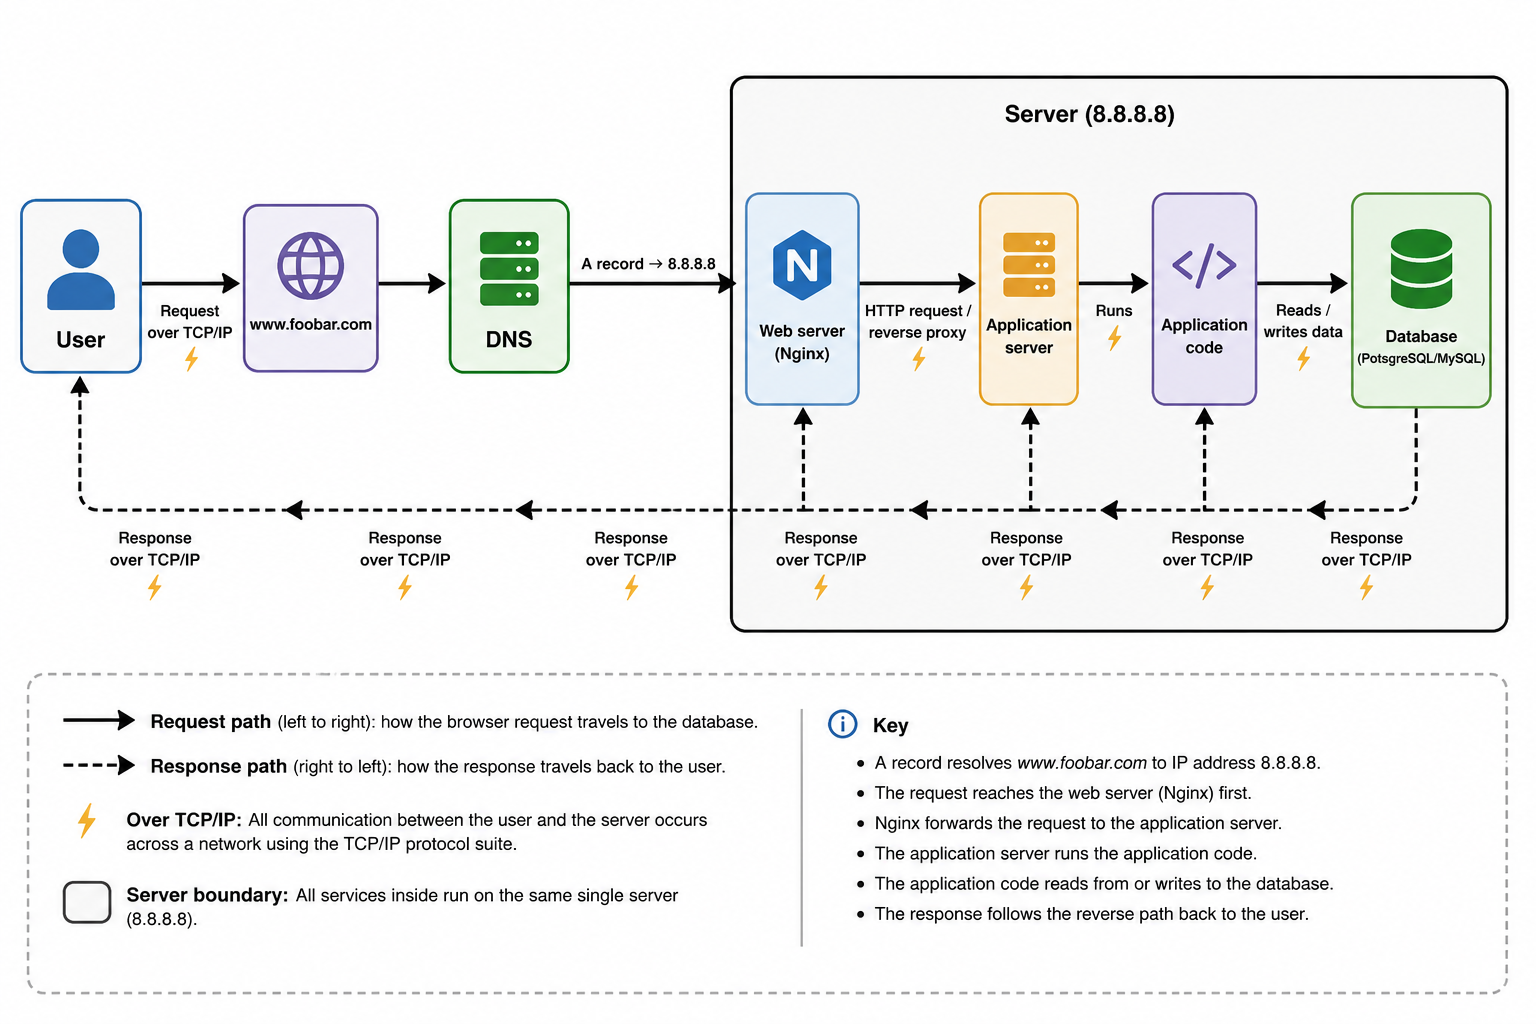
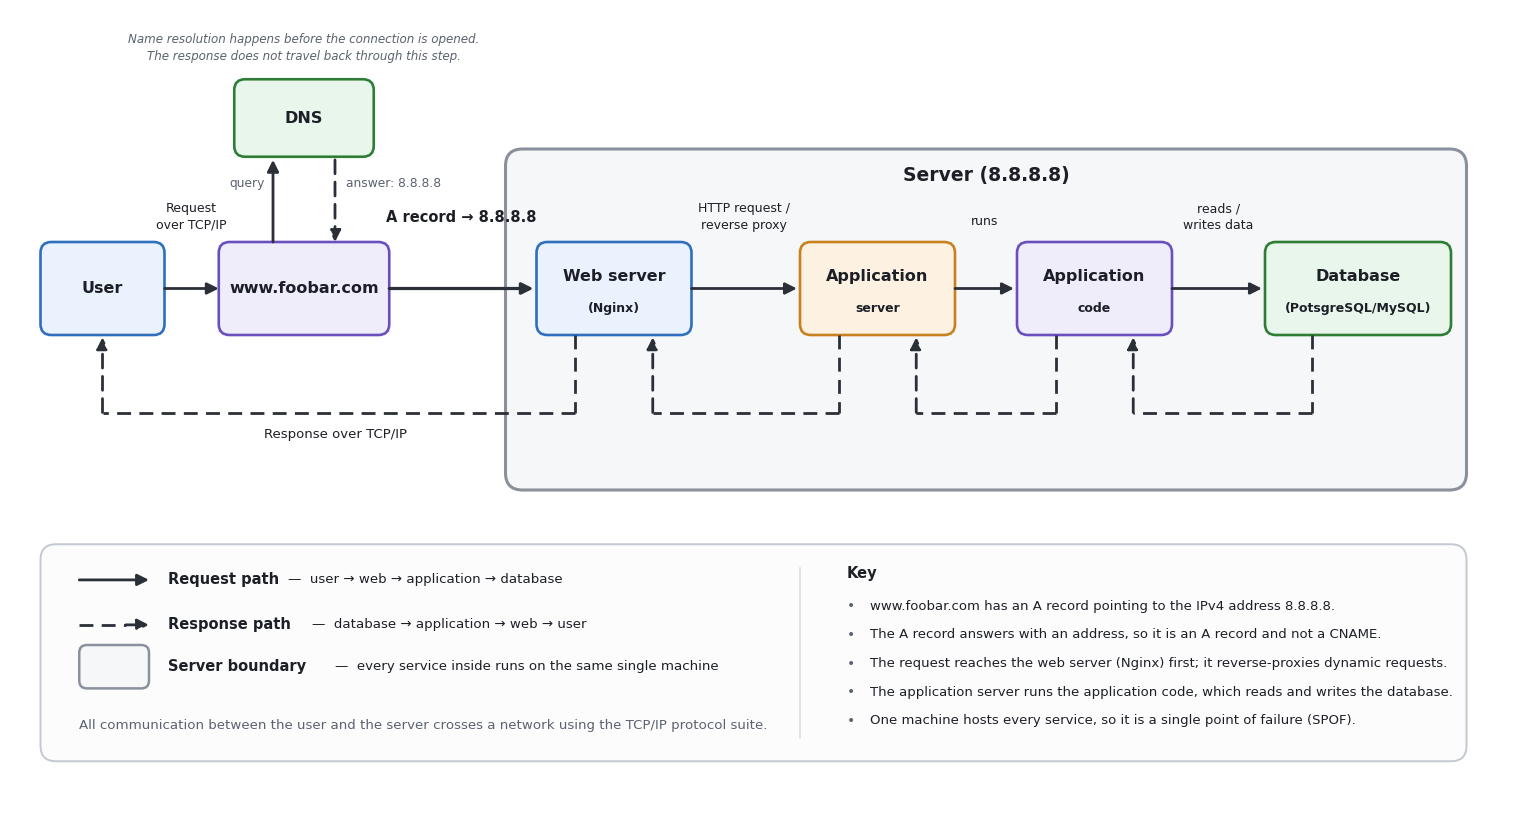
Fix and update both README.md single_server_stack.mmd and single_server_stack.png

diff --git a/web_infrastructure_design/README.md b/web_infrastructure_design/README.md
@@ -1,10 +1,14 @@
 # Introduction to Web Infrastructure Design
 
-This repository contains the answer for **Task 0 — Model a Single-Server Web Stack**.
+This directory contains the web infrastructure designs for this project, one
+section per task, together with the diagram source and its rendered image.
 
-The design shows how a request for `www.foobar.com` is resolved by DNS, reaches a single server at `8.8.8.8`, passes through the web and application layers to the database, and then returns to the user.
+Each design is delivered as a plain-text diagram (`.mmd`) and a rendered image
+(`.png`). The plain-text representation is used instead of Mermaid source with
+the agreement of the project supervisor; the diagram content, labels, boundaries
+and connection directions follow the requirements of the task in full.
 
-## Task 0 — Model a Single-Server Web Stack
+## 0. Model a Single-Server Web Stack
 
 ### Diagram
 
@@ -14,96 +18,173 @@ The plain-text version of the same design is in `single_server_stack.mmd`.
 
 ### Request path
 
-1. The **User** requests `www.foobar.com`.
-2. **DNS** resolves `www.foobar.com`.
-3. Its **A record** points to the IPv4 address `8.8.8.8`.
-4. The browser connects to the **Web server (Nginx)** on that server.
-5. Nginx forwards a dynamic request to the **Application server**.
+1. The **User** opens `www.foobar.com` in a browser.
+2. The name `www.foobar.com` is resolved by **DNS**, which answers with the
+   IPv4 address `8.8.8.8`.
+3. The browser then connects straight to `8.8.8.8`, the address held in the
+   **A record** for `www.foobar.com`. This is the connection into the
+   server-side entry point of the design.
+4. The **Web server (Nginx)** is that entry point. It accepts the HTTP request.
+5. Nginx serves static content itself, and reverse-proxies anything that needs
+   processing to the **Application server**.
 6. The application server runs the **Application code**.
-7. The application code reads from or writes to the **Database (PotsgreSQL/MySQL)**.
-8. The result travels back through the application code, application server and Nginx, then across the network to the user.
+7. The application code reads from and writes to the
+   **Database (PotsgreSQL/MySQL)**.
+8. The response travels back the other way: database → application code →
+   application server → Nginx → user.
 
-DNS is part of name resolution before the connection to the web server. The website response does **not** travel back through DNS.
+Name resolution happens *before* the connection is opened. It is a lookup to the
+side of the request path, not a hop along it, which is why the response does not
+travel back through it. The diagram shows this by placing the resolution step
+beside `www.foobar.com` rather than between it and the server.
 
 ### What is a server?
 
-A server is a computer that provides services to other computers over a network. It may be a physical machine or a virtual machine running on physical hardware.
+A server is a computer that provides services to other computers over a network.
+It may be a **physical machine**, or a **virtual machine** running on physical
+hardware shared with other virtual machines.
 
-A server runs an operating system, such as Linux, and is commonly hosted in a data centre with reliable electricity, networking, cooling and physical security.
+A server runs an **operating system**, such as Linux, which manages its CPU,
+memory, storage and network interfaces and which the services depend on.
 
-The **server itself** is the machine. Nginx, the application server, the application code and PostgreSQL/MySQL are software or services running on that machine.
+A server is commonly hosted in a **data centre**, which supplies reliable
+electricity, network connectivity, cooling and physical security rather than
+relying on an office or a home connection.
+
+The **server is the machine**; Nginx, the application server, the application
+code and PostgreSQL/MySQL are **services and software running on that machine**.
+Restarting a service is not the same as restarting the server, and the machine
+can be healthy while a service on it has failed.
 
 ### DNS and the A record
 
-DNS stands for **Domain Name System**. It translates a human-readable hostname such as `www.foobar.com` into an IP address that computers can use to locate the server.
+**DNS** stands for **Domain Name System**. It is the distributed directory that
+translates a human-readable name such as `www.foobar.com` into the IP address a
+browser needs in order to open a connection. Without it, users would have to
+know and type the address of every site they visit.
 
-In this design, `www.foobar.com` has an **A record** pointing to `8.8.8.8`. An A record maps a hostname to an IPv4 address.
+In this scenario the `www` record is an **A record** because the value it has to
+return is a **literal IPv4 address**, `8.8.8.8`. An A record is exactly the
+record type that maps a hostname to an IPv4 address. Had `www` needed to point
+at *another hostname* instead, the correct record type would have been a
+**CNAME**; had the target been an IPv6 address, it would have been an **AAAA**
+record. The design places one machine at one IPv4 address, so an A record is the
+right choice.
 
 ### Web server — Nginx
 
-The **Web server (Nginx)** receives HTTP requests. It can serve static content directly and can forward requests requiring application processing to the application server as a reverse proxy.
+The **Web server (Nginx)** is what listens for incoming HTTP requests and is the
+first component of the server side to see a request. It serves static files such
+as images, stylesheets and scripts directly, and acts as a **reverse proxy**,
+forwarding requests that need application logic to the application server and
+returning that answer to the client.
 
 ### Application server
 
-The **Application server** handles server-side application requests and runs the application logic through the application code.
+The **Application server** is the runtime that hosts the application. It receives
+the requests Nginx forwards, executes the application code for each one inside a
+process it manages, and hands the produced response back to Nginx.
 
 ### Application code
 
-The **Application code** contains the rules and behaviour of the website. It may validate input, process logins, perform calculations, decide what data is needed and build a response.
+The **Application code** is the part written for this particular website — its
+business logic. It validates input, handles authentication, decides which data is
+needed, applies the rules of the site and builds the response body.
 
 ### Database
 
-The **Database (PotsgreSQL/MySQL)** stores persistent information such as users, products, posts or orders. The application code reads existing data and writes new or updated data.
+The **Database (PotsgreSQL/MySQL)** stores the data that has to outlive a single
+request: accounts, sessions, posts, orders and so on. The application code reads
+from it to answer requests and writes to it to record changes.
 
 ### TCP/IP communication
 
-The user's computer and the server communicate across a network using the **TCP/IP protocol suite**.
+The user's computer and the server communicate across a network using the
+**TCP/IP protocol suite**.
 
-IP handles addressing and routing between machines. TCP provides reliable delivery of data between endpoints. HTTP or HTTPS normally operates on top of TCP/IP.
+**IP** is responsible for addressing and routing: it is what makes `8.8.8.8`
+reachable and gets packets from the user's network to the server's network.
+**TCP** runs on top of IP and provides a reliable, ordered, connection-oriented
+byte stream between the two endpoints, retransmitting anything lost on the way.
+**HTTP** (or HTTPS) is then carried inside that TCP connection. The request and
+the response in this design both cross the network this way.
 
 ### LAMP
 
-**LAMP** traditionally means:
+**LAMP** is a historical acronym for a common web stack:
 
-- **L** — Linux
-- **A** — Apache
-- **M** — MySQL
-- **P** — PHP
+- **L** — Linux, the operating system
+- **A** — Apache, the web server
+- **M** — MySQL, the database
+- **P** — PHP (or Perl/Python), the application language
 
-This design is **LAMP-like**, not a literal LAMP stack. It uses **Nginx instead of Apache**, and it does not require PHP as the application language.
+This design is **LAMP-like rather than a literal LAMP stack**. It follows the
+same shape — one Linux machine hosting a web server, an application runtime and a
+relational database — but it uses **Nginx in place of Apache**, and it does not
+prescribe PHP as the application language. Calling it a LAMP stack would
+therefore be inaccurate.
 
 ### Limitations of this design
 
 #### Single point of failure — SPOF
 
-The one server is a **single point of failure (SPOF)**. If the machine fails, the web server, application server, application code and database all become unavailable.
+Every component sits on one machine, which makes that machine a **single point of
+failure (SPOF)**. If it loses power, loses network, runs out of disk or suffers a
+hardware fault, the web server, the application server, the application code and
+the database all go down together. There is nothing else to serve the site.
 
 #### Downtime during maintenance
 
-Because all services run on one machine, restarting or shutting down that machine for maintenance can make the entire website unavailable.
+Any maintenance that requires restarting the machine — a kernel upgrade, a
+hardware change, a configuration change that needs a reboot — takes the whole
+site offline for the duration. Even restarting a single service, such as
+deploying new application code, interrupts the requests it was serving, because
+there is no second copy to take the traffic in the meantime.
 
 #### Capacity limit
 
-One server has finite CPU, memory, disk and network capacity. As traffic increases, the machine can become slow or eventually fail to handle additional requests.
+One machine has a fixed amount of CPU, memory, disk I/O and network bandwidth,
+which every service must share. As the number of queries per second (QPS) rises,
+those services compete with each other — the database and the application code in
+particular — and response times grow until requests start being refused. The only
+way to grow is to make the single machine bigger, and that has a ceiling.
 
 ### Self-validation
 
-- [x] `single_server_stack.mmd` contains the complete single-server design using plain-text boxes and arrows.
-- [x] The image contains every required component label and one explicit server boundary.
-- [x] The request reaches **Web server (Nginx)** before the application server.
-- [x] The request path continues through **Application server → Application code → Database (PotsgreSQL/MySQL)**.
-- [x] The response returns **Database → Application code → Application server → Web server (Nginx) → User**.
-- [x] DNS is used for hostname resolution and is not shown as a hop in the response path.
-- [x] The A record points `www.foobar.com` to `8.8.8.8`.
-- [x] The README distinguishes the server machine from the services running on it.
-- [x] The README explains TCP/IP.
-- [x] The README defines LAMP and explains why this design is only LAMP-like.
-- [x] The README identifies the SPOF, maintenance downtime risk and capacity limitation.
+- [x] `single_server_stack.mmd` renders successfully.
+- [x] The diagram contains every required label and one explicit server boundary.
+- [x] The diagram shows directional request and response paths.
+- [x] The README correctly identifies the A record and explains DNS.
+- [x] The README distinguishes the machine, web server, application server, application code, and database.
+- [x] The README explains TCP/IP and defines LAMP without calling the Nginx design a literal LAMP stack.
+- [x] The README identifies the three required limitations.
+
+Note on the first item: with the supervisor's agreement, `single_server_stack.mmd`
+holds a plain-text diagram rather than Mermaid source, and
+`single_server_stack.png` is the rendered image. Both were checked to display
+correctly and to carry the same components, labels, boundary and connection
+directions.
+
+Additional checks carried out on this design:
+
+- [x] Each required label appears exactly once: `User`, `www.foobar.com`, `DNS`,
+      `Web server (Nginx)`, `Application server`, `Application code`,
+      `Database (PotsgreSQL/MySQL)`.
+- [x] The connection leaving `www.foobar.com` towards the server-side entry point
+      carries the label `A record → 8.8.8.8`.
+- [x] Every connection is drawn with a direction.
+- [x] The request reaches `Web server (Nginx)` before the application layer.
+- [x] The response returns database → application code → application server →
+      Nginx → user, and is not routed back through name resolution.
+- [x] No load balancer, redundant application path, security control or
+      monitoring control appears in the design.
+- [x] All text files are UTF-8 and end with a newline.
 
 ## Repository structure
 
 ```text
 holbertonschool-web_infrastructure_design/
+├── README.md
 └── web_infrastructure_design/
     ├── README.md
     ├── single_server_stack.mmd

diff --git a/README.md b/README.md
@@ -1,8 +1,15 @@
 # Introduction to Web Infrastructure Design
 
-This repository contains a set of web infrastructure design exercises showing how a web application can evolve from a simple single-server setup to more resilient, secure, monitored, and separated architectures.
+This repository contains a set of web infrastructure design exercises showing how
+a web application can evolve from a simple single-server setup to more resilient,
+secure, monitored, and separated architectures.
 
-The project focuses on understanding the role of each infrastructure component, how requests move through a web stack, and what limitations appear as traffic, availability, security, and operational requirements increase.
+The project focuses on understanding the role of each infrastructure component,
+how requests move through a web stack, and what limitations appear as traffic,
+availability, security, and operational requirements increase.
+
+This is a design project. No server, service, certificate or cloud resource is
+deployed, configured or contacted.
 
 ## Learning goals
 
@@ -20,3 +27,31 @@ This project covers:
 - HTTPS, firewalls, and monitoring
 - Separated infrastructure tiers
 - Capacity and scaling considerations
+
+## Designs
+
+The designs and their explanations live in `web_infrastructure_design/README.md`,
+one section per task.
+
+| Task | Design | Files |
+| --- | --- | --- |
+| 0 | Model a Single-Server Web Stack | `single_server_stack.mmd`, `single_server_stack.png` |
+
+## Diagram format
+
+Each design is delivered as a plain-text diagram (`.mmd`) together with a rendered
+image (`.png`). The plain-text representation is used instead of Mermaid source
+with the agreement of the project supervisor. Every diagram still uses the exact
+component labels required by its task, marks the boundaries the task asks for, and
+gives every connection a direction.
+
+## Repository structure
+
+```text
+holbertonschool-web_infrastructure_design/
+├── README.md
+└── web_infrastructure_design/
+    ├── README.md
+    ├── single_server_stack.mmd
+    └── single_server_stack.png
+```
